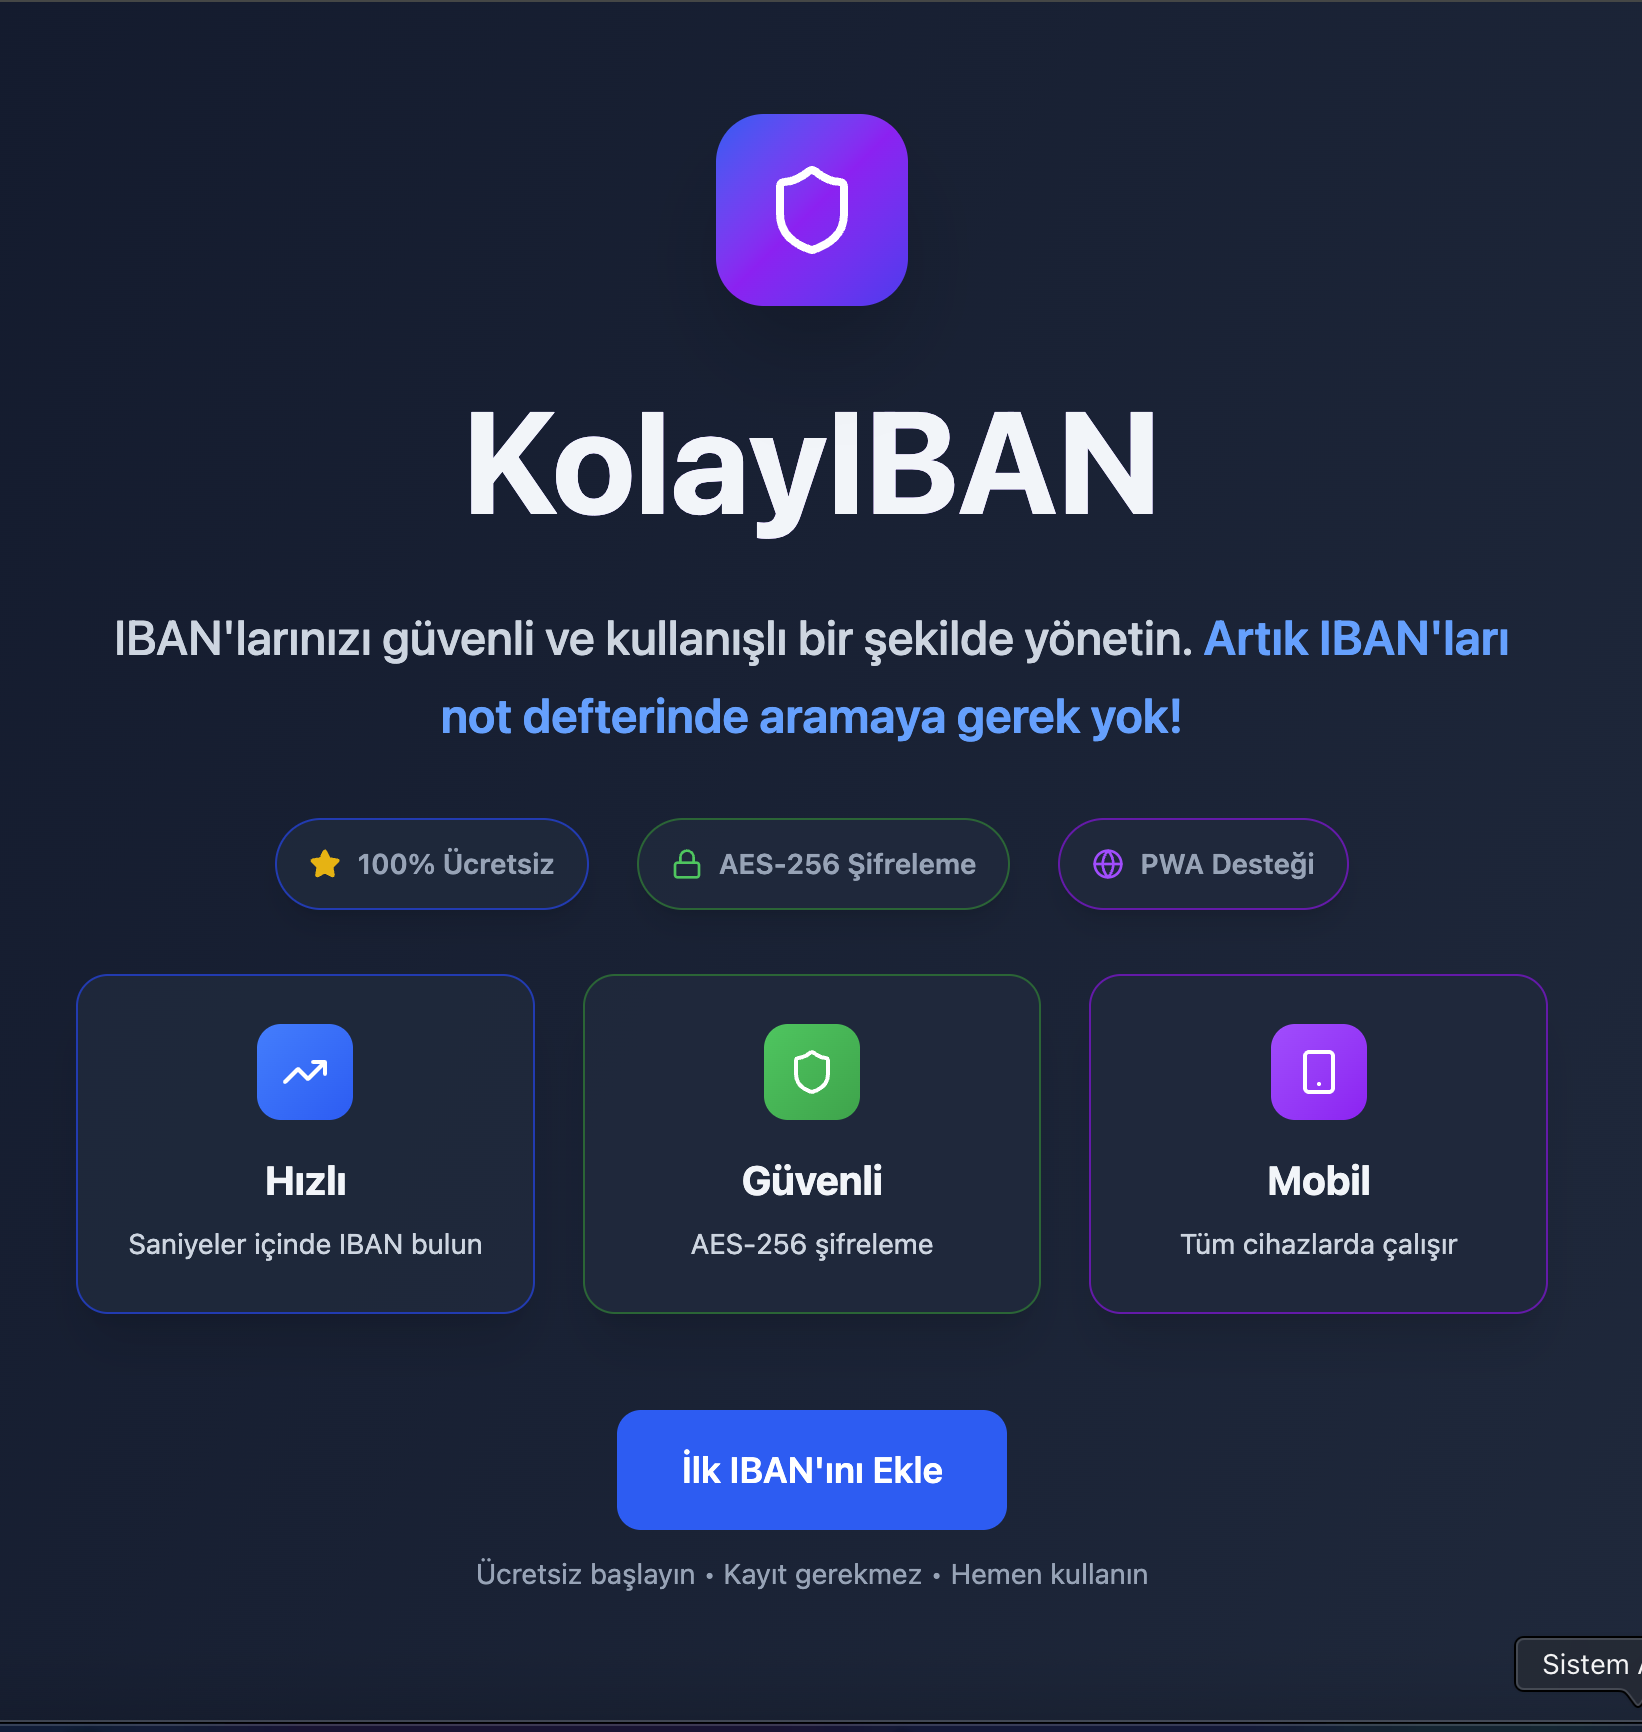
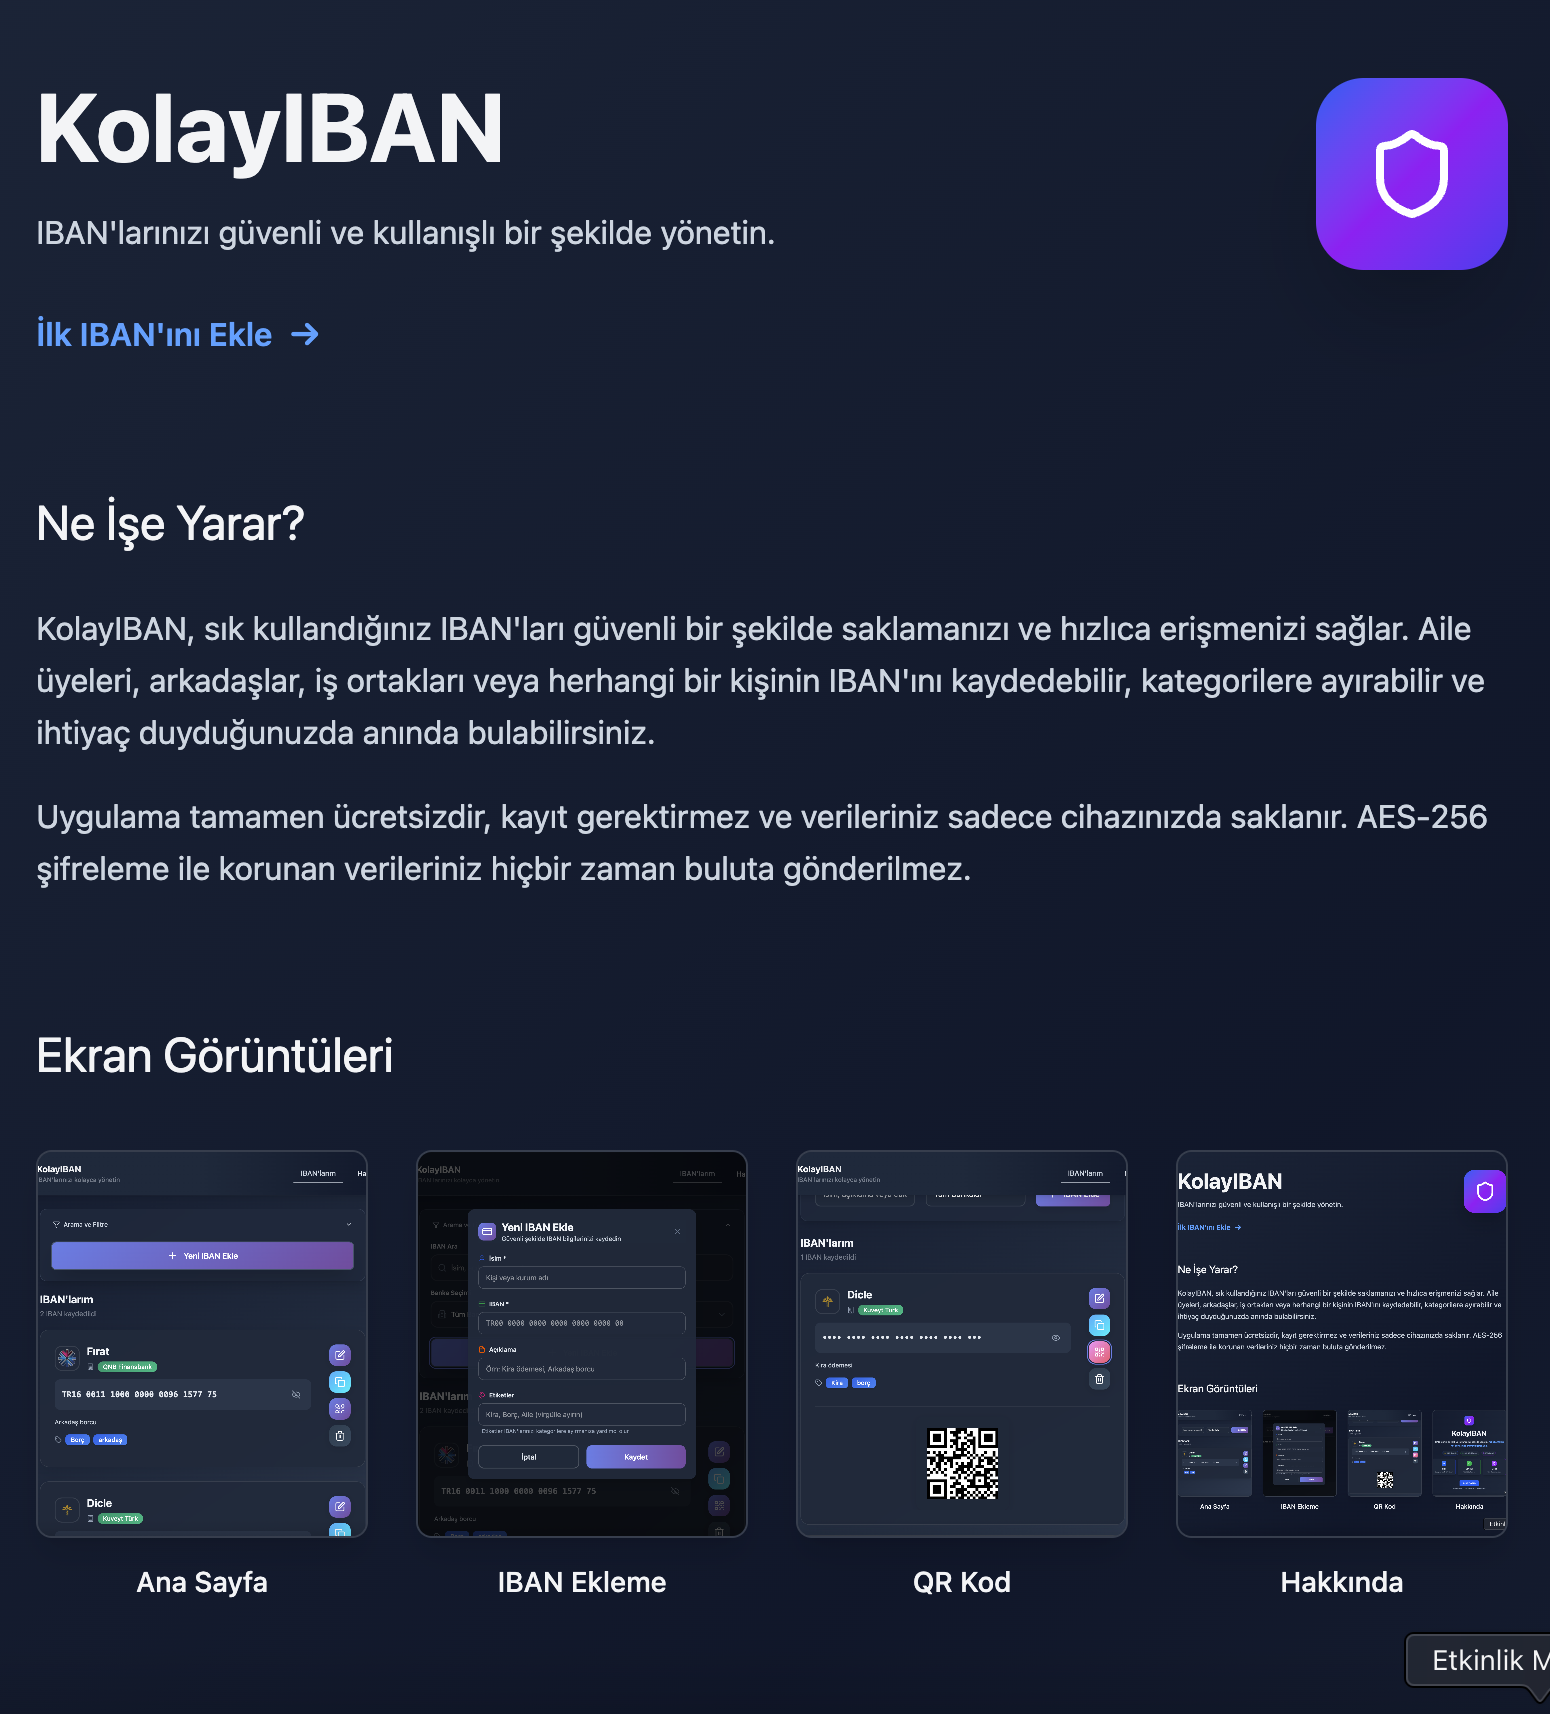
update 5 files

diff --git a/src/pages/AboutPage.jsx b/src/pages/AboutPage.jsx
@@ -14,10 +14,12 @@ import {
   Mail,
   Heart,
   ArrowUp,
+  X,
 } from "lucide-react";
 
 function AboutPage() {
   const [showScrollTop, setShowScrollTop] = useState(false);
+  const [selectedImage, setSelectedImage] = useState(null);
 
   // Scroll event listener
   useEffect(() => {
@@ -48,11 +50,10 @@ function AboutPage() {
                 KolayIBAN
               </h1>
               <p className="text-base text-gray-600 dark:text-gray-400 leading-relaxed mb-4 md:mb-6">
-                IBAN'larınızı güvenli ve kullanışlı bir şekilde yönetin. 
+                IBAN'larınızı güvenli ve kullanışlı bir şekilde yönetin.
               </p>
-              
+
               <div className="flex flex-col items-start gap-4">
-              
                 <Link
                   to="/home"
                   className="text-blue-600 dark:text-blue-400 hover:text-blue-800 dark:hover:text-blue-300 font-semibold text-base transition-colors flex items-center gap-2"
@@ -92,6 +93,91 @@ function AboutPage() {
               </div>
             </div>
 
+            {/* Screenshots Section */}
+            <div>
+              <h2 className="text-2xl font-normal text-gray-900 dark:text-gray-100 mb-8">
+                Ekran Görüntüleri
+              </h2>
+
+              <div className="grid grid-cols-2 md:grid-cols-2 lg:grid-cols-4 gap-6">
+                <div className="space-y-3">
+                  <div className="bg-white dark:bg-gray-800 rounded-lg shadow-lg overflow-hidden border border-gray-200 dark:border-gray-700 cursor-pointer hover:shadow-xl transition-shadow duration-200">
+                    <img
+                      src="/screenshots/home.png"
+                      alt="Ana Sayfa"
+                      className="w-full h-48 object-cover"
+                      onClick={() =>
+                        setSelectedImage({
+                          src: "/screenshots/home.png",
+                          title: "Ana Sayfa",
+                        })
+                      }
+                    />
+                  </div>
+                  <h3 className="text-sm font-medium text-gray-900 dark:text-gray-100 text-center">
+                    Ana Sayfa
+                  </h3>
+                </div>
+
+                <div className="space-y-3">
+                  <div className="bg-white dark:bg-gray-800 rounded-lg shadow-lg overflow-hidden border border-gray-200 dark:border-gray-700 cursor-pointer hover:shadow-xl transition-shadow duration-200">
+                    <img
+                      src="/screenshots/add-iban.png"
+                      alt="IBAN Ekleme"
+                      className="w-full h-48 object-cover"
+                      onClick={() =>
+                        setSelectedImage({
+                          src: "/screenshots/add-iban.png",
+                          title: "IBAN Ekleme",
+                        })
+                      }
+                    />
+                  </div>
+                  <h3 className="text-sm font-medium text-gray-900 dark:text-gray-100 text-center">
+                    IBAN Ekleme
+                  </h3>
+                </div>
+
+                <div className="space-y-3">
+                  <div className="bg-white dark:bg-gray-800 rounded-lg shadow-lg overflow-hidden border border-gray-200 dark:border-gray-700 cursor-pointer hover:shadow-xl transition-shadow duration-200">
+                    <img
+                      src="/screenshots/qr.png"
+                      alt="QR Kod"
+                      className="w-full h-48 object-cover"
+                      onClick={() =>
+                        setSelectedImage({
+                          src: "/screenshots/qr.png",
+                          title: "QR Kod",
+                        })
+                      }
+                    />
+                  </div>
+                  <h3 className="text-sm font-medium text-gray-900 dark:text-gray-100 text-center">
+                    QR Kod
+                  </h3>
+                </div>
+
+                <div className="space-y-3">
+                  <div className="bg-white dark:bg-gray-800 rounded-lg shadow-lg overflow-hidden border border-gray-200 dark:border-gray-700 cursor-pointer hover:shadow-xl transition-shadow duration-200">
+                    <img
+                      src="/screenshots/about.png"
+                      alt="Hakkında"
+                      className="w-full h-48 object-cover"
+                      onClick={() =>
+                        setSelectedImage({
+                          src: "/screenshots/about.png",
+                          title: "Hakkında",
+                        })
+                      }
+                    />
+                  </div>
+                  <h3 className="text-sm font-medium text-gray-900 dark:text-gray-100 text-center">
+                    Hakkında
+                  </h3>
+                </div>
+              </div>
+            </div>
+
             {/* How to Use Section */}
             <div>
               <h2 className="text-2xl font-normal text-gray-900 dark:text-gray-100 mb-8">
@@ -104,10 +190,10 @@ function AboutPage() {
                     1. IBAN Ekleme
                   </h3>
                   <p className="text-base text-gray-500 dark:text-gray-400 leading-relaxed">
-                    "Yeni IBAN Ekle" butonuna tıklayın ve IBAN bilgilerini girin.
-                    Sistem otomatik olarak banka adını tespit eder ve IBAN formatını
-                    düzenler. İsim, açıklama ve etiketler ekleyerek IBAN'ınızı
-                    kategorilere ayırabilirsiniz.
+                    "Yeni IBAN Ekle" butonuna tıklayın ve IBAN bilgilerini
+                    girin. Sistem otomatik olarak banka adını tespit eder ve
+                    IBAN formatını düzenler. İsim, açıklama ve etiketler
+                    ekleyerek IBAN'ınızı kategorilere ayırabilirsiniz.
                   </p>
                 </div>
 
@@ -116,9 +202,9 @@ function AboutPage() {
                     2. Arama ve Filtreleme
                   </h3>
                   <p className="text-base text-gray-500 dark:text-gray-400 leading-relaxed">
-                    Arama kutusuna isim, açıklama veya etiket yazarak IBAN'larınızı
-                    bulabilirsiniz. Banka filtreleme özelliği ile belirli bir
-                    bankanın IBAN'larını listeleyebilirsiniz.
+                    Arama kutusuna isim, açıklama veya etiket yazarak
+                    IBAN'larınızı bulabilirsiniz. Banka filtreleme özelliği ile
+                    belirli bir bankanın IBAN'larını listeleyebilirsiniz.
                   </p>
                 </div>
 
@@ -127,10 +213,10 @@ function AboutPage() {
                     3. Kopyalama ve Paylaşım
                   </h3>
                   <p className="text-base text-gray-500 dark:text-gray-400 leading-relaxed">
-                    IBAN'ları tek tıkla kopyalayabilir, QR kod oluşturabilirsiniz.
-                    QR kodları mobil bankacılık uygulamalarında kolayca
-                    tarayabilirsiniz. IBAN'ları gizleyebilir ve gerektiğinde tekrar
-                    görünür yapabilirsiniz.
+                    IBAN'ları tek tıkla kopyalayabilir, QR kod
+                    oluşturabilirsiniz. QR kodları mobil bankacılık
+                    uygulamalarında kolayca tarayabilirsiniz. IBAN'ları
+                    gizleyebilir ve gerektiğinde tekrar görünür yapabilirsiniz.
                   </p>
                 </div>
               </div>
@@ -220,6 +306,35 @@ function AboutPage() {
         </div>
       </section>
 
+      {/* Image Modal */}
+      {selectedImage && (
+        <div
+          className="fixed inset-0 bg-black/80 z-50 flex items-center justify-center p-4"
+          onClick={() => setSelectedImage(null)}
+        >
+          <div className="relative max-w-4xl max-h-full">
+            <button
+              onClick={() => setSelectedImage(null)}
+              className="absolute -top-12 right-0 text-white hover:text-gray-300 transition-colors"
+            >
+              <X className="w-8 h-8" />
+            </button>
+            <div className="bg-white dark:bg-gray-800 rounded-lg shadow-2xl overflow-hidden">
+              <img
+                src={selectedImage.src}
+                alt={selectedImage.title}
+                className="w-full h-auto max-h-[80vh] object-contain"
+              />
+              <div className="p-4 border-t border-gray-200 dark:border-gray-700">
+                <h3 className="text-lg font-semibold text-gray-900 dark:text-gray-100 text-center">
+                  {selectedImage.title}
+                </h3>
+              </div>
+            </div>
+          </div>
+        </div>
+      )}
+
       {/* Yukarı Çık Butonu */}
       {showScrollTop && (
         <button
@@ -252,7 +367,6 @@ function AboutPage() {
                   </p>
                 </div>
               </div>
-             
             </div>
 
             {/* Quick Links */}
@@ -315,7 +429,9 @@ function AboutPage() {
             <div className="flex items-center gap-2 text-sm text-gray-500 dark:text-gray-400">
               <Heart className="w-4 h-4 text-red-500 animate-pulse" />
               <span className="font-medium">Made with love by</span>
-              <span className="text-blue-600 dark:text-blue-400 font-semibold">Mustafa Karaçuha</span>
+              <span className="text-blue-600 dark:text-blue-400 font-semibold">
+                Mustafa Karaçuha
+              </span>
             </div>
 
             <div className="flex items-center gap-4">
@@ -359,7 +475,11 @@ function AboutPage() {
           {/* Copyright */}
           <div className="text-center pt-6 border-t border-gray-200 dark:border-gray-700">
             <p className="text-sm text-gray-500 dark:text-gray-400">
-              © 2025 <span className="font-semibold text-blue-600 dark:text-blue-400">KolayIBAN</span>. Tüm hakları saklıdır.
+              © 2025{" "}
+              <span className="font-semibold text-blue-600 dark:text-blue-400">
+                KolayIBAN
+              </span>
+              . Tüm hakları saklıdır.
             </p>
           </div>
         </div>
